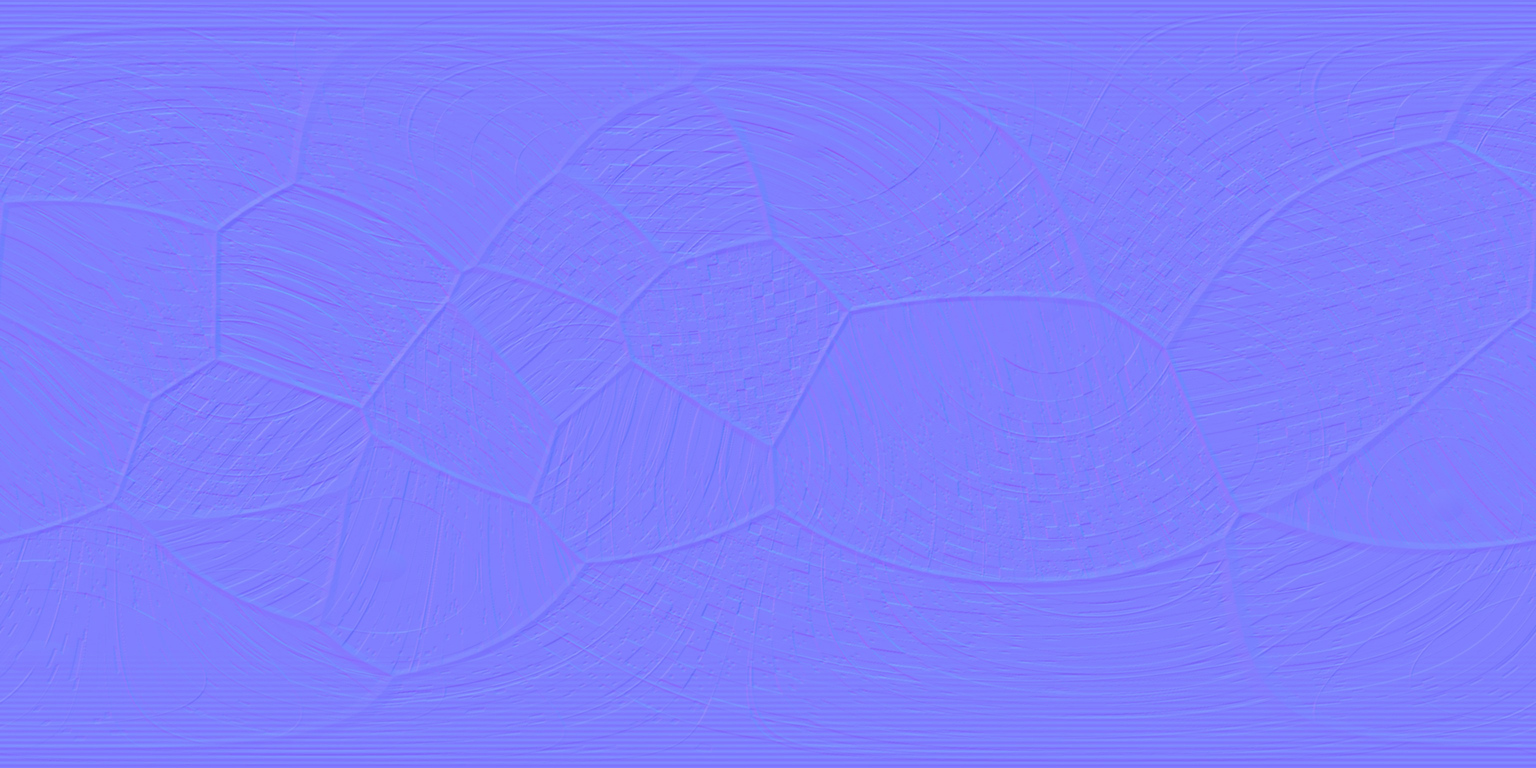
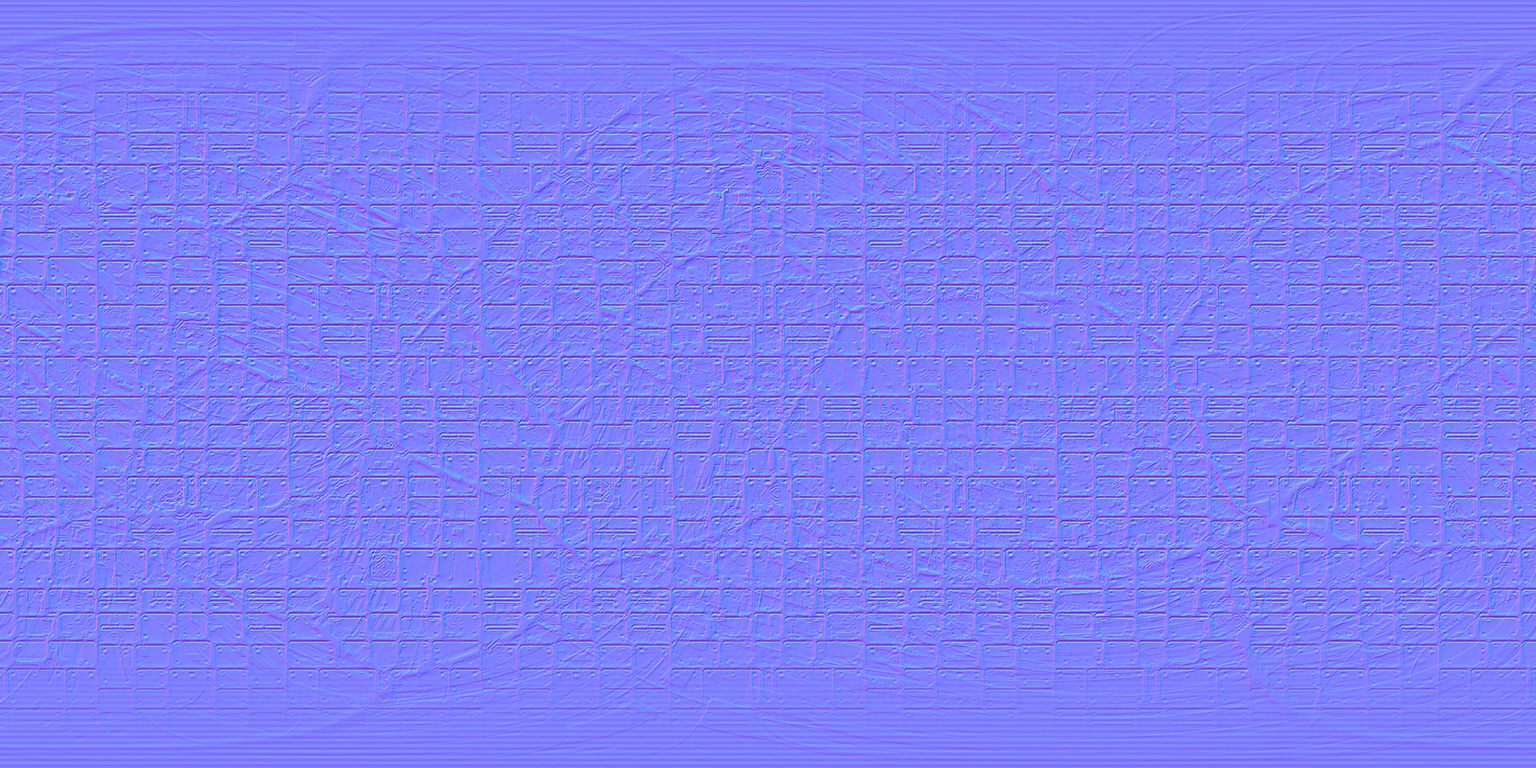
A generator that actually makes textures: SDXL-turbo with circular padding
RJ: "try another way for planets. let me see if we have a generator that works. it
looking like meshy is needed" - after showing a Meshy Cybertron that looks exactly
right (1,621,956 faces, 827,792 vertices).

WE HAVE ONE. It is not the endpoint that failed earlier, and the difference is one
line, not a better prompt:

  free FLUX endpoint      4 prompts, 4 COMPOSITIONS. Centre/edge luminance 1.47
                          where a flat texture is 1.00. It draws subjects.
  SDXL-turbo on Kaggle,
  every Conv2d switched
  to CIRCULAR padding     centre/edge 0.98, 1.01, 0.96 on three prompts; seam delta
                          0.7 to 9.9. Real tileable surfaces: plating with rivets
                          and vents, circuit-board districts, glowing trench walls.

Circular padding makes the convolutions wrap, so the model cannot frame a picture and
the left edge continues into the right by construction. That is the whole fix.

WHY NOT THE MESHY MESH ITSELF. Its value is the look, not the geometry: 827k vertices
for one planet against 18 planets in a game already spending half its frame on 7,600
asteroids. remaster_planets.py takes the same look to a 33k-vertex sphere - the tiles
supply panel detail and RELIEF (they feed the height map, which shares the albedo's
UVs, so the displaced sphere grows real panel edges), while the structure maps keep
the planet-scale layout, the pole handling and the wrapping.
[…]

Changed region(s): [[0.0, 0.0938, 1.0, 0.9062], [0.3125, 0.0938, 0.375, 0.125], [0.5625, 0.0938, 0.5938, 0.125]]

diff --git a/assets/remaster_planets.py b/assets/remaster_planets.py
@@ -1,0 +1,155 @@
+#!/usr/bin/env python3
+"""remaster_planets.py - put the GENERATED surface detail onto the generated planet structure.
+
+RJ 2026-09-06: "okay try another way for planets. let me see if we have a generator that works. it looking like
+meshy is needed" - after showing a Meshy Cybertron (1,621,956 faces) that looks exactly right.
+
+WHAT WE FOUND. We do have one that works, and it is not the endpoint that failed before:
+
+  free FLUX endpoint (gen_sprite.py)   4 prompts, 4 COMPOSITIONS. centre/edge luminance 1.47, where a flat
+                                       texture is 1.00. It draws subjects, never surfaces.
+  SDXL-turbo on Kaggle, with every
+  Conv2d switched to CIRCULAR padding  centre/edge 0.96-1.02 and seam delta 0.7-9.9 on three prompts. Real,
+                                       tileable textures - panels, rivets, vents, circuit districts, trench walls.
+
+Circular padding is the whole difference: it makes the convolutions wrap, so the model cannot compose a framed
+picture and the left edge continues into the right by construction.
+
+WHY NOT JUST USE THE MESHY MESH. Its value is the LOOK, not the geometry - 827,792 vertices for one planet, times
+18 planets, against a game that already spends half its frame on 7,600 asteroids. This pipeline takes the same look
+and puts it on a 33k-vertex sphere: the tiles supply panel detail and relief, the structure maps supply the
+planet-scale layout (plates, trench networks, districts, poles) and the equirectangular wrapping.
+
+    py -3.13 assets/remaster_planets.py --look iron
+    py -3.13 assets/remaster_planets.py --all
+
+Reads   assets/planets/machine_<look>{,_e,_h,_ao,_r}.jpg   (structure, from gen_cybertron.py)
+        assets/planets/tile_{plate,city,trench}.jpg        (detail, from SDXL-turbo)
+Writes  the same machine_<look>* names, remastered in place after a .orig backup.
+"""
+import argparse
+import os
+import shutil
+
+import numpy as np
+from PIL import Image, ImageFilter
+
+HERE = os.path.dirname(os.path.abspath(__file__))
+OUT = os.path.join(HERE, 'planets')
+TILES = ('plate', 'city', 'trench')
+
+
+def load(path, mode='RGB'):
+    return np.asarray(Image.open(path).convert(mode), dtype=np.float32)
+
+
+def tile_to(sheet, W, H, repeats, flip_alternate=True):
+    """lay a square tile repeats times around the equator, mirroring alternate copies so the joins match"""
+    tw = max(1, W // repeats)
+    t = Image.fromarray(sheet.astype('uint8')).resize((tw, tw), Image.LANCZOS)
+    tf = t.transpose(Image.FLIP_LEFT_RIGHT)
+    out = Image.new('RGB', (W, H))
+    for x in range(0, W, tw):
+        for y in range(0, H, tw):
+            use = t if (not flip_alternate or ((x // tw) + (y // tw)) % 2 == 0) else tf
+            out.paste(use, (x, y))
+    return np.asarray(out, dtype=np.float32)
+
+
+def high_pass(a, radius):
+    lo = np.asarray(Image.fromarray(np.clip(a, 0, 255).astype('uint8')).filter(ImageFilter.GaussianBlur(radius)),
+                    dtype=np.float32)
+    return a - lo
+
+
+def remaster(look, repeats, strength, relief):
+    stem = os.path.join(OUT, 'machine_' + look)
+    need = [stem + '.jpg', stem + '_e.jpg', stem + '_h.jpg']
+    for p in need:
+        if not os.path.exists(p):
+            raise SystemExit('missing %s - run gen_cybertron.py first' % os.path.basename(p))
+    for p in (stem + '.jpg', stem + '_e.jpg', stem + '_h.jpg', stem + '_ao.jpg', stem + '_r.jpg'):
+        if os.path.exists(p) and not os.path.exists(p + '.orig'):
+            shutil.copy2(p, p + '.orig')
+
+    alb = load(stem + '.jpg')
+    emi = load(stem + '_e.jpg')
+    hgt = load(stem + '_h.jpg', 'L')
+    H, W = alb.shape[:2]
+
+    tiles = {}
+    for k in TILES:
+        p = os.path.join(OUT, 'tile_%s.jpg' % k)
+        if not os.path.exists(p):
+            raise SystemExit('missing %s - generate the SDXL tiles first' % os.path.basename(p))
+        tiles[k] = tile_to(load(p), W, H, repeats)
+
+    # WHERE each tile belongs, read from the structure maps rather than invented:
+    #   the height map's low ground is trench, its high ground is plate, and the emissive marks the districts.
+    h01 = hgt / 255.0
+    lit = np.clip(emi.mean(axis=2) / 90.0, 0, 1)
+    w_trench = np.clip((0.46 - h01) / 0.22, 0, 1)
+    w_city = np.clip(lit, 0, 1) * (1 - w_trench)
+    w_plate = np.clip(1 - w_trench - w_city, 0, 1)
+    tot = np.maximum(1e-3, w_trench + w_city + w_plate)
+    w_trench, w_city, w_plate = w_trench / tot, w_city / tot, w_plate / tot
+
+    # poles: a square tile stretched over a pole is a smear, so the detail fades out before it gets there
+    lat = np.linspace(0, 1, H)[:, None]
+    fade = np.clip(1 - (np.abs(lat - 0.5) - 0.28) / 0.18, 0, 1)
+
+    detail = (tiles['plate'] * w_plate[..., None] + tiles['city'] * w_city[..., None]
+              + tiles['trench'] * w_trench[..., None])
+    # LUMINANCE ONLY. The first version added the high-passed detail in RGB, which carried the tile's own colour
+    # into the world and left green and brown blotches across a gunmetal planet - the look's palette is decided by
+    # gen_cybertron.py and the detail layer has no business overriding it. Taking the mean keeps the panel
+    # STRUCTURE and throws away its hue.
+    hp = high_pass(detail, max(2.0, W / (repeats * 12.0))).mean(axis=2)
+    new_alb = np.clip(alb + hp[..., None] * strength * fade[..., None], 0, 255)
+
+    # RELIEF: the panel edges become real geometry, because the height map shares the albedo's UVs and the sphere
+    # is displaced through it. This is what buys the Meshy look on a 33k-vertex ball.
+    hp_l = hp / max(1.0, np.abs(hp).max())
+    new_h = np.clip(h01 + hp_l * relief * fade[:, :1], 0, 1) * 255
+
+    # EMISSIVE: the tiles' own hot pixels (the lit ports and conduits the model drew) added where the structure
+    # already says something is lit, so the planet does not glow uniformly.
+    warm = np.clip(detail.mean(axis=2) - 150, 0, 255) / 105.0
+    new_emi = np.clip(emi + (warm * 120.0 * np.clip(lit + 0.25, 0, 1) * fade)[..., None], 0, 255)
+
+    Image.fromarray(new_alb.astype('uint8')).save(stem + '.jpg', quality=92)
+    Image.fromarray(new_h.astype('uint8')).convert('L').save(stem + '_h.jpg', quality=94)
+    Image.fromarray(new_emi.astype('uint8')).save(stem + '_e.jpg', quality=92)
+
+    # the normal map has to be rebuilt or it describes the OLD surface
+    grey = np.asarray(Image.fromarray(new_alb.astype('uint8')).convert('L').filter(ImageFilter.GaussianBlur(0.9)),
+                      dtype=np.float32) / 255.0
+    gx = np.roll(grey, -1, axis=1) - np.roll(grey, 1, axis=1)
+    gy = np.zeros_like(grey); gy[1:-1] = grey[2:] - grey[:-2]
+    nz = np.ones_like(grey); nx, ny = -gx * 3.2, -gy * 3.2
+    ln = np.sqrt(nx * nx + ny * ny + nz * nz)
+    Image.fromarray((np.stack([nx / ln * .5 + .5, ny / ln * .5 + .5, nz / ln * .5 + .5], -1) * 255).astype('uint8')
+                    ).save(stem + '_n.jpg', quality=92)
+
+    a0 = load(stem + '.jpg.orig').mean() if os.path.exists(stem + '.jpg.orig') else float('nan')
+    print('%-9s %dx%d  albedo %.1f -> %.1f  detail repeats %d  relief %.2f  emissive %.1f -> %.1f'
+          % (look, W, H, a0, new_alb.mean(), repeats, relief, emi.mean(), new_emi.mean()))
+
+
+def main():
+    ap = argparse.ArgumentParser()
+    ap.add_argument('--look', default='iron')
+    ap.add_argument('--all', action='store_true')
+    ap.add_argument('--repeats', type=int, default=8, help='how many times the detail tiles wrap the equator')
+    ap.add_argument('--strength', type=float, default=0.85)
+    ap.add_argument('--relief', type=float, default=0.30)
+    a = ap.parse_args()
+    looks = ([f[len('machine_'):-len('.jpg')] for f in os.listdir(OUT)
+              if f.startswith('machine_') and f.endswith('.jpg') and '_' not in f[len('machine_'):-len('.jpg')]]
+             if a.all else [a.look])
+    for look in sorted(looks):
+        remaster(look, a.repeats, a.strength, a.relief)
+
+
+if __name__ == '__main__':
+    main()

diff --git a/TASKS.md b/TASKS.md
@@ -153,6 +153,7 @@ Each was verified by reading the cited line; the reproduction is stated so it ca
 - `synod.js:42` and `knowledge.js:29` - empty catches around localStorage; the Synod still announces "THE IRON SYNOD REFITS" when nothing persisted, and a corrupt knowledge blob silently restarts from empty and reports `0 shared + 0 private` as if true.
 - `planetmenu.js:885-907` - `blackmarketFenceHtml(p)` is defined and never called; a second live implementation of the same feature is at :556-557.
 - `missions.js:88/92` (`planetLive`, `goodByKey`) and `power_panel.js:71` (`tickMask`) are defined and never called.
+- `index.html:861` (STALE COMMENT, not a functional bug - the two later sites are correct and agree with each other) - the `miningBotsTick` header says "Bots never destroy a rock themselves: the split is the pilot's shot", but the 2026-09-06 drone-mining change at `:957` does `a.hp-=CFG.BOT_DPS*dt; if(a.hp<=0){ destroyAsteroidObj(a,P); }` - bots DO destroy rocks now. `CFG.BOT_DPS=3.5` (`:397`, whose own comment says drones "split rocks with you", a scale-4 rock's 26 hull cut in ~7.4s solo). The header describes the pre-mining seam-only behaviour and was not updated when BOT_DPS landed, so anyone reading `:861` gets the wrong model (that a rock only ever splits under player fire). Verified by reading `:861` vs `:397` vs `:950-957` in the same file.
 
 ## Notes
 - The game's main loop is `frame(now)` at the bottom of index.html; it is a global, which is what
